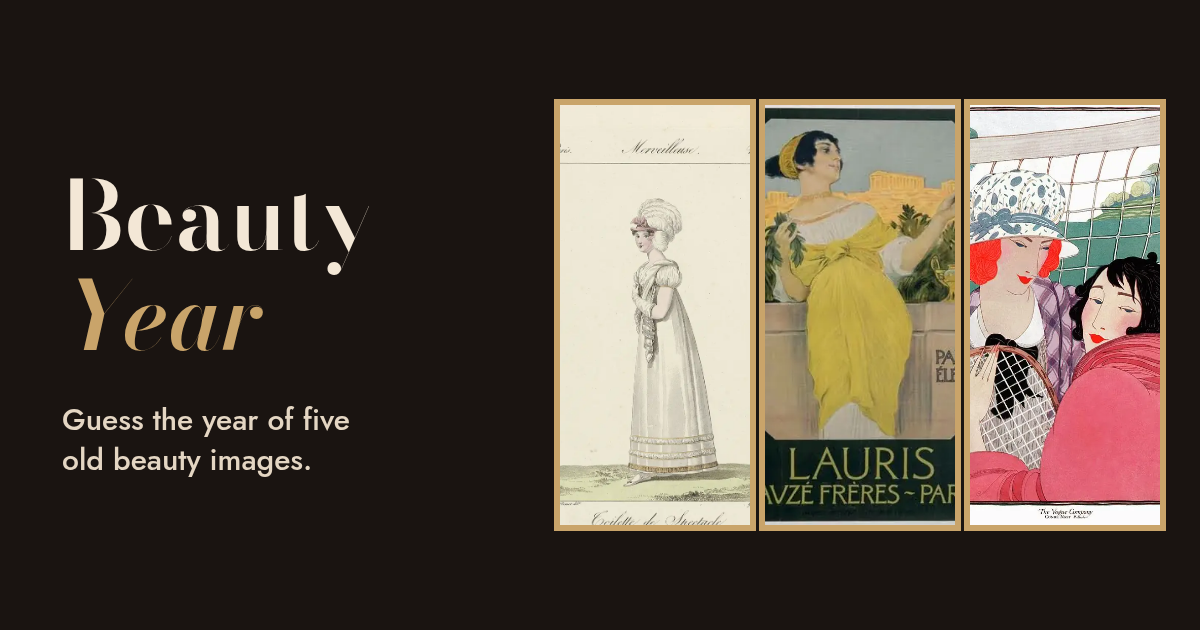
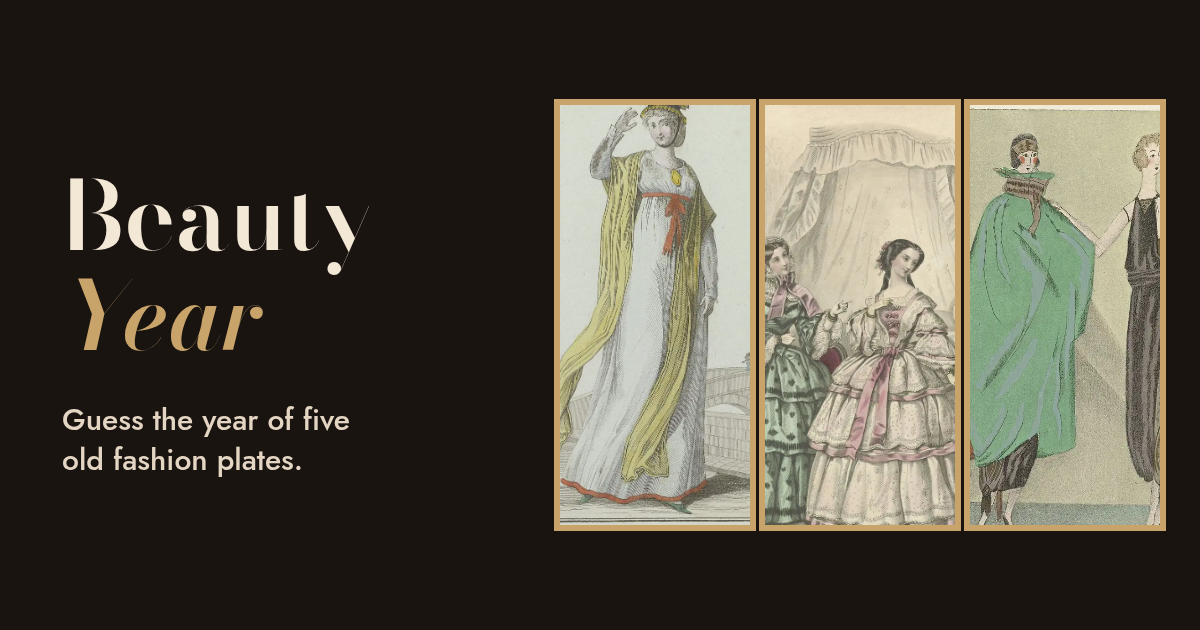
Beauty Year: intro line matches the plate pool, new og.png and GIFs

Changed region(s): [[0.4625, 0.1508, 0.9867, 0.8444], [0.0925, 0.6937, 0.2775, 0.754]]

diff --git a/docs/index.html b/docs/index.html
@@ -5,9 +5,9 @@
 <meta name="viewport" content="width=device-width, initial-scale=1">
 <meta name="robots" content="noindex,nofollow">
 <title>Beauty Year: guess when it was the look</title>
-<meta name="description" content="Five old fashion plates, ads and magazine covers. Guess the year of each one, then see the real date and the credit.">
+<meta name="description" content="Five old fashion plates from the 1790s to the 1930s. Guess the year of each one, then see the real date and the credit.">
 <meta property="og:title" content="Beauty Year">
-<meta property="og:description" content="Guess the year of five old beauty images. How close can you get?">
+<meta property="og:description" content="Guess the year of five old fashion plates. How close can you get?">
 <meta property="og:image" content="https://evanmack45.github.io/beautyexhibit-preview/og.png">
 <meta property="og:type" content="website">
 <meta name="theme-color" content="#1a1411">
@@ -25,7 +25,7 @@
 <main class="room" id="room" data-seed="20261125">
   <div class="intro">
     <h1>Beauty <i>Year</i></h1>
-    <p class="lede">Five old fashion plates, ads and covers. Guess the year each one came out.</p>
+    <p class="lede">Five old fashion plates, one from each era between the 1790s and the 1930s. Guess the year each one came out.</p>
     <p class="friend" id="friend-top" hidden></p>
   </div>
   <figure class="piece" id="piece">
